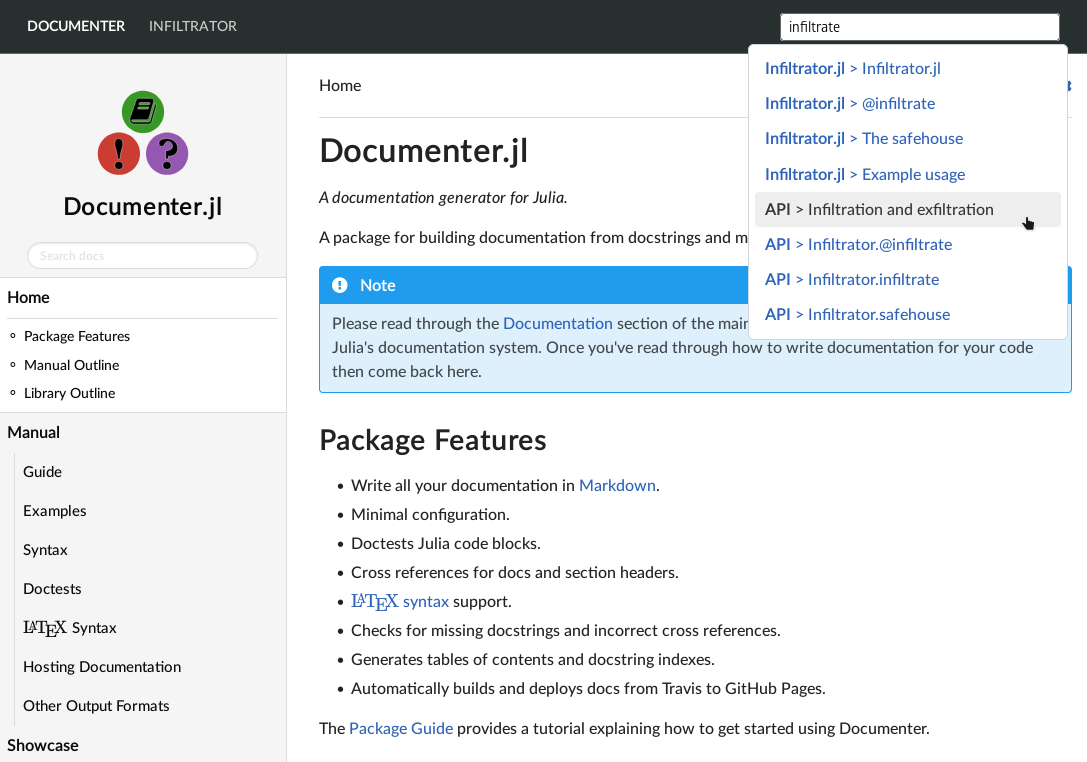
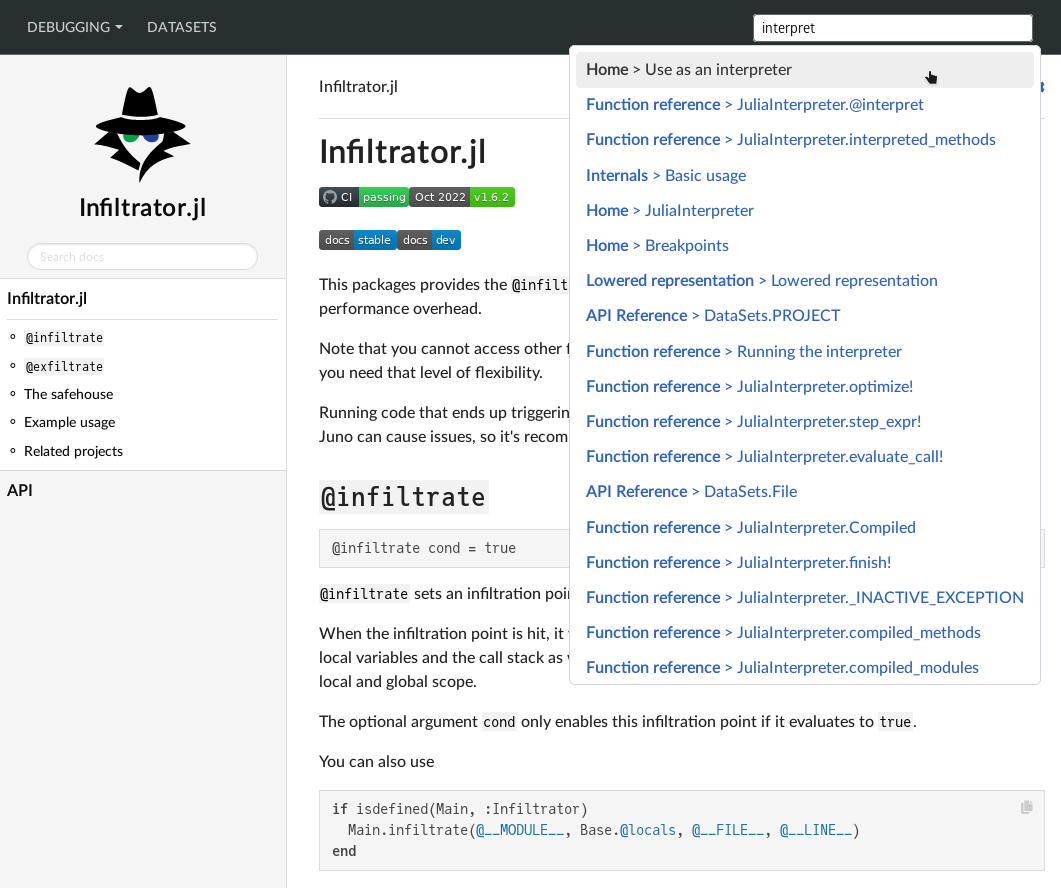
feat: Enable nested top-level navigation and automate cloning

diff --git a/assets/default/multidoc.css b/assets/default/multidoc.css
@@ -53,11 +53,66 @@ html {
 }
 
 #multi-page-nav .nav-item {
-    margin: 0 0.75rem;
+    padding: 0 0.75rem;
     line-height: var(--navbar-height);
     font-size: 14px;
     display: inline-block;
-    padding: 0;
+    margin: 0;
+}
+
+#multi-page-nav .dropdown-label {
+    cursor: pointer;
+    color: #ccc;
+    text-transform: uppercase;
+}
+
+#multi-page-nav .nav-dropdown .dropdown-label::after {
+    content: "";
+    margin-left: 5px;
+
+    /* caret */
+    display: inline-block;
+    vertical-align: 0.2em;
+    border-top: .3em solid;
+    border-right: .3em solid transparent;
+    border-bottom: 0;
+    border-left: .3em solid transparent;
+}
+
+#multi-page-nav .dropdown-label:hover {
+    color: #fff;
+}
+
+#multi-page-nav .nav-dropdown-container {
+    background-color: #485353;
+    border: 1px solid #5e6d6f;
+    border-radius: 5px;
+    margin-top: -5px;
+    line-height: 30px;
+    padding: 5px 0;
+
+    position: absolute;
+    display: none;
+}
+
+#multi-page-nav .nav-dropdown-container .nav-item:hover {
+    background-color: #282f2f;
+}
+
+#multi-page-nav .nav-dropdown.nav-expanded .nav-dropdown-container {
+    display: block;
+}
+
+#multi-page-nav .nav-dropdown-container a.nav-link {
+    color: #ccc;
+    line-height: 30px;
+    padding: 0 1em;
+    text-transform: none;
+    width: 100%;
+}
+
+#multi-page-nav .nav-dropdown-container a.nav-link:hover {
+    color: #fff;
 }
 
 #multi-page-nav a.nav-link {
@@ -121,7 +176,7 @@ html {
 
     #multi-page-nav .nav-item {
         line-height: unset;
-        margin: 0 0 1em 0;
+        padding: 0 0 1em 0;
         width: 100%;
     }
 
@@ -139,6 +194,11 @@ html {
         top: -100vh;
         transition-duration: 0.7s;
         -webkit-transition-duration: 0.7s;
+    }
+
+    #multi-page-nav .nav-dropdown-container {
+        position: relative;
+        margin-bottom: 1em;
     }
 
     #documenter .docs-main header.docs-navbar.headroom--unpinned.headroom--not-top.headroom--not-bottom {

diff --git a/assets/multidoc_injector.js b/assets/multidoc_injector.js
@@ -15,5 +15,10 @@ require(["jquery"], function ($) {
           .getElementById("nav-items")
           .classList.toggle("hidden-on-mobile");
       });
+      Array.prototype.map.call(document.getElementsByClassName("dropdown-label"), function (el) {
+      el.addEventListener("click", function () {
+        el.parentElement.classList.toggle("nav-expanded")
+      })
+    })
   });
 });

diff --git a/README.md b/README.md
@@ -9,31 +9,35 @@ using MultiDocumenter
 clonedir = mktempdir()
 
 docs = [
-    ("JuliaDocs/Documenter.jl.git", "gh-pages", false) => MultiDocumenter.MultiDocRef(
-        upstream = joinpath(clonedir, "Documenter"),
-        path = "doc",
-        name = "Documenter"
-    ),
-    # using SSH for cloning is suggested when you're dealing with private repos, because
-    # an ssh-agent will handle your keys for you
-    # ("JuliaDebug/Infiltrator.jl.git", "gh-pages", true) => MultiDocumenter.MultiDocRef(
-    ("JuliaDebug/Infiltrator.jl.git", "gh-pages", false) => MultiDocumenter.MultiDocRef(
-        upstream = joinpath(clonedir, "Infiltrator"),
-        path = "inf",
-        name = "Infiltrator"
+    MultiDocumenter.DropdownNav("Debugging", [
+        MultiDocumenter.MultiDocRef(
+            upstream = joinpath(clonedir, "Infiltrator"),
+            path = "inf",
+            name = "Infiltrator",
+            giturl = "https://github.com/JuliaDebug/Infiltrator.jl.git",
+        ),
+        MultiDocumenter.MultiDocRef(
+            upstream = joinpath(clonedir, "JuliaInterpreter"),
+            path = "debug",
+            name = "JuliaInterpreter",
+            giturl = "https://github.com/JuliaDebug/JuliaInterpreter.jl.git",
+        ),
+    ]),
+    MultiDocumenter.MultiDocRef(
+        upstream = joinpath(clonedir, "DataSets"),
+        path = "data",
+        name = "DataSets",
+        giturl = "https://github.com/JuliaComputing/DataSets.jl.git",
+        # or use ssh instead for private repos:
+        # giturl = "git@github.com:JuliaComputing/DataSets.jl.git",
     ),
 ]
-
-for ((remote, branch, use_ssh), docref) in docs
-    prefix = use_ssh ? "git@github.com:" : "https://github.com/"
-    run(`git clone --depth 1 $prefix$remote --branch $branch --single-branch $(docref.upstream)`)
-end
 
 outpath = joinpath(@__DIR__, "out")
 
 MultiDocumenter.make(
     outpath,
-    collect(last.(docs));
+    docs;
     search_engine = MultiDocumenter.SearchConfig(
         index_versions = ["stable"],
         engine = MultiDocumenter.FlexSearch
